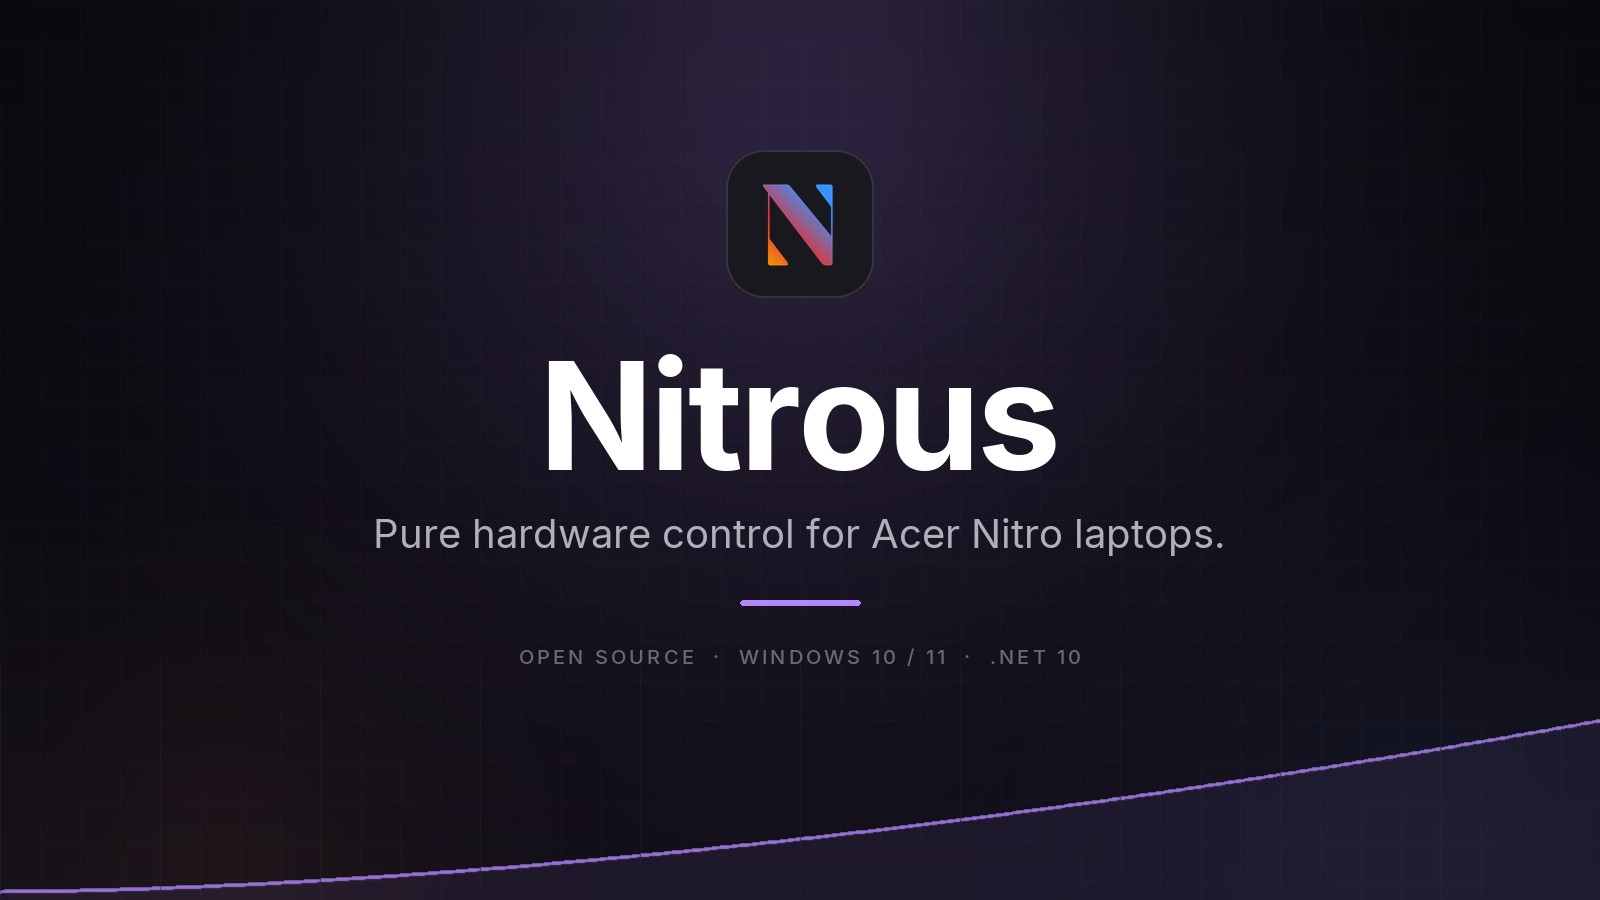
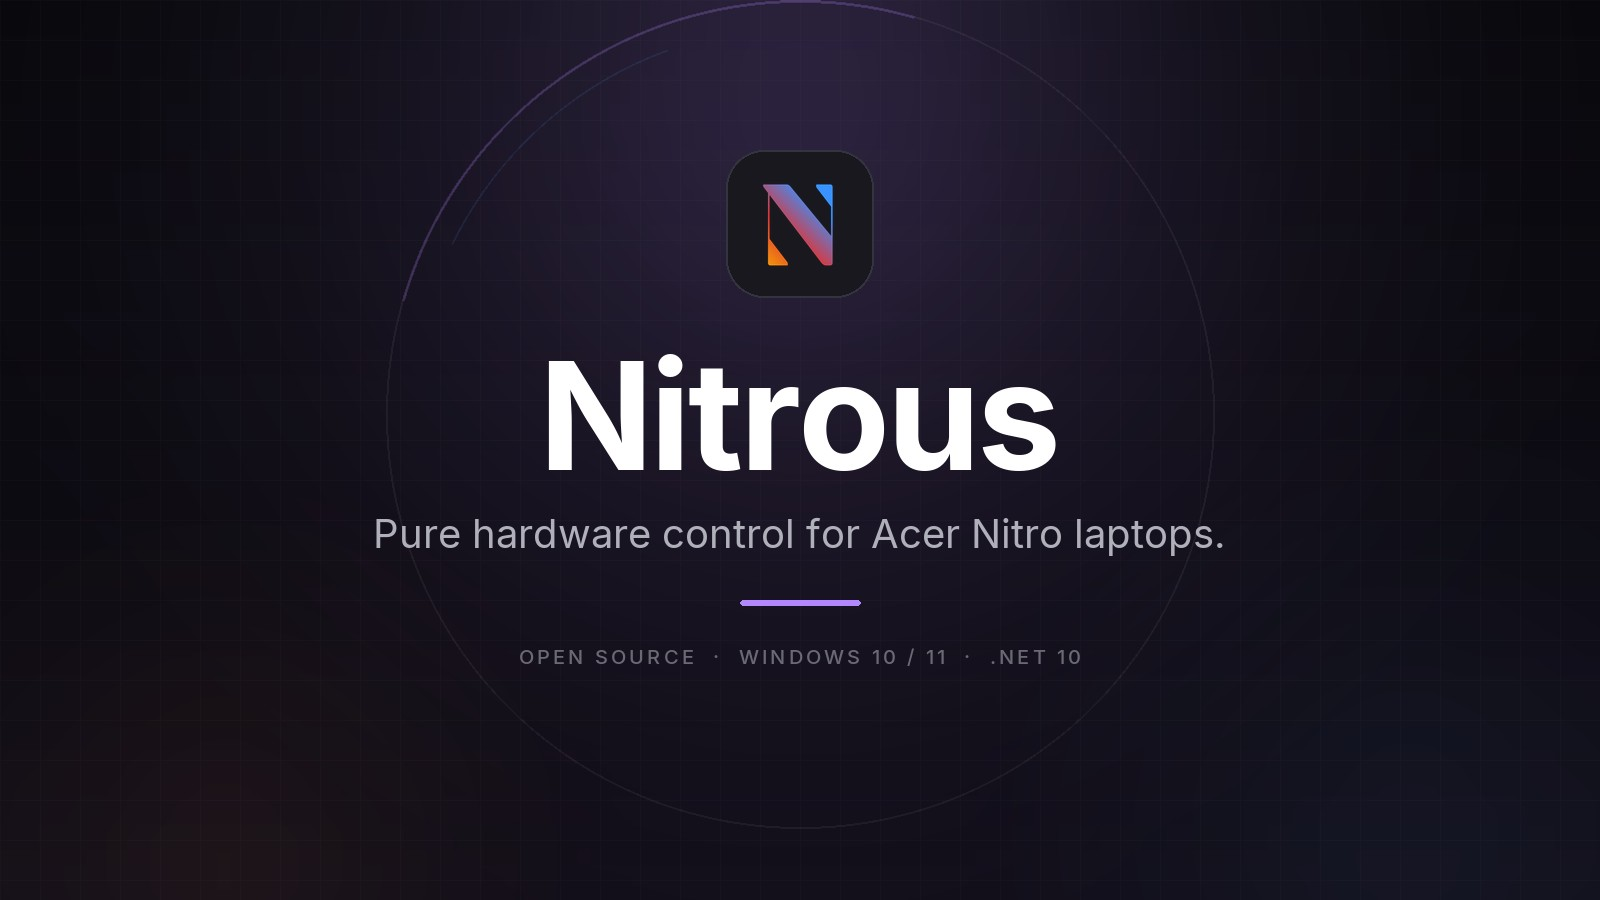
docs(assets): trade the fan curve for a gauge bezel
The line read as a chart being drawn. This puts a faint ring behind the content with a short accent arc - an instrument bezel rather than a graph - and keeps the breathing glow behind it. Both hero assets regenerated from the same render: the GIF at 1200x675 (1.61 MB, 16 frames) and the still at 1600x900.

tools/hero.py grew a --motif switch (curve, none, ticks, horizon, ring, brackets) so the alternatives are one flag away.

diff --git a/README.md b/README.md
@@ -1,6 +1,6 @@
 <div align="center">
 
-<img src="assets/nitrous-hero.gif" alt="The Nitrous logo and wordmark above a fan-curve trace, with the background glow pulsing slowly" width="800">
+<img src="assets/nitrous-hero.gif" alt="The Nitrous logo and wordmark inside a faint gauge bezel, with the background glow pulsing slowly" width="800">
 
 ### Pure hardware control for Acer Nitro laptops.
 *No OEM service stack. No telemetry daemon. Just the firmware.*
